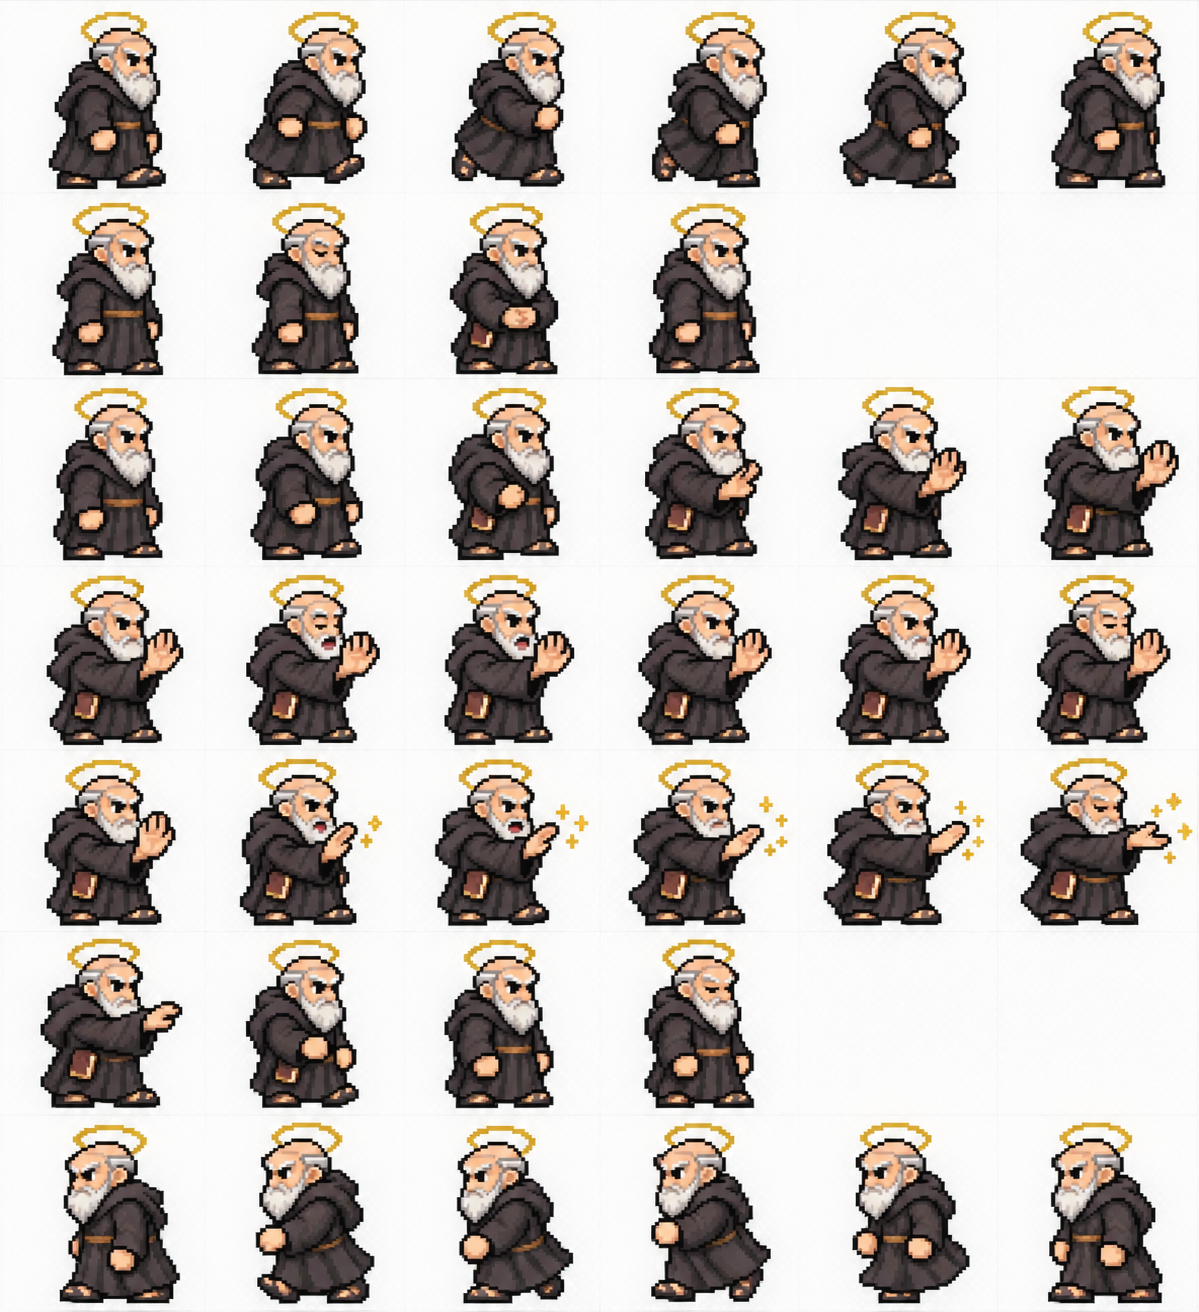
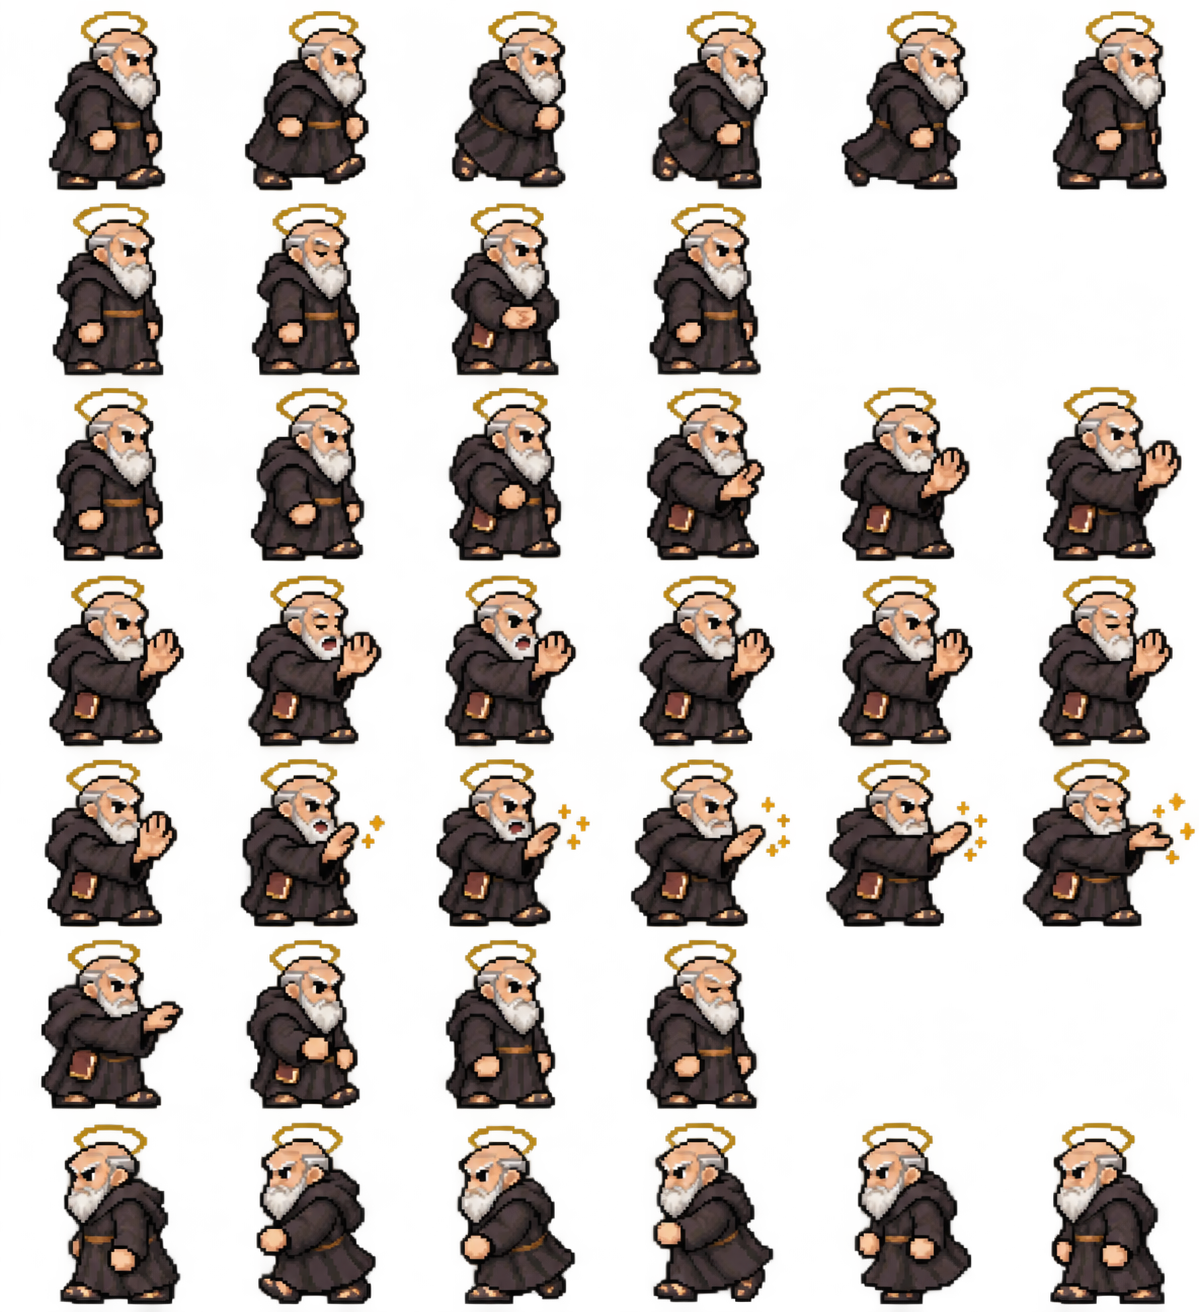
feat(site): Download for Chrome opens the install steps in a modal; new Benedict sprite

diff --git a/site/index.html b/site/index.html
@@ -84,12 +84,19 @@
   .patron span { font-size: 12px; line-height: 1.35; color: var(--muted); margin-top: 3px; }
   .patron.on b { text-decoration: underline 3px var(--accent); text-underline-offset: 4px; }
 
-  /* Install */
-  .install { max-width: 640px; margin: 0 auto; padding: 24px 28px; }
+  /* Install modal */
+  .install { width: min(600px, calc(100vw - 32px)); padding: 26px 28px 28px; color: var(--text); }
+  .install::backdrop { background: rgba(24, 12, 32, .45); }
+  .install h2 { text-align: left; margin-bottom: 4px; }
+  .install .sub { text-align: left; margin: 0 0 18px; }
   .install ol { margin: 0; padding-left: 1.4em; }
   .install li { margin: 0 0 10px; }
+  .install .ctas { justify-content: flex-start; margin-top: 22px; }
+  .install .close {
+    position: absolute; top: 10px; right: 10px; width: 32px; height: 32px; cursor: pointer;
+    font: 700 18px/1 var(--mono); color: var(--text); background: none; border: none;
+  }
   code { background: var(--track); padding: 1px 5px; font: inherit; font-size: .92em; }
-  .install .ctas { margin-top: 20px; }
 
   footer { text-align: center; font-size: 13px; color: var(--muted); padding: 72px 0 40px; }
 </style>
@@ -102,7 +109,7 @@
   <p class="tagline">A patron saint for your browser.</p>
   <p class="sub">Set a daily limit for the sites that eat your time. When it runs out, a saint walks onto the page, raises a hand, and sweeps it away in a shower of pixels.</p>
   <div class="ctas">
-    <a class="btn" href="intercede.zip" download>
+    <a class="btn" href="intercede.zip" id="get" download>
       <svg width="18" height="18" viewBox="0 0 9 9" fill="currentColor" shape-rendering="crispEdges" aria-hidden="true"><path d="M3 0h3v4h2v1H7v1H6v1H5v1H4V7H3V6H2V5H1V4h2zM0 8h9v1H0z"/></svg>
       Download for Chrome
     </a>
@@ -150,28 +157,34 @@
     </div>
   </section>
 
-  <section aria-labelledby="install-title" id="install">
-    <h2 id="install-title">Install in a minute</h2>
-    <p class="sub">Intercede isn't on the Chrome Web Store yet, so it installs by hand.</p>
-    <div class="install frame">
-      <ol>
-        <li><a href="intercede.zip" download>Download Intercede</a> and unzip it.</li>
-        <li>Open <code>chrome://extensions</code> and turn on <b>Developer mode</b> (top right).</li>
-        <li>Click <b>Load unpacked</b> and choose the unzipped folder.</li>
-        <li>Pin Intercede to your toolbar, set your sites, and choose your patron.</li>
-      </ol>
-      <div class="ctas">
-        <a class="btn" href="intercede.zip" download>Download for Chrome</a>
-        <a class="btn ghost" href="https://github.com/wyatt/bert">View on GitHub</a>
-      </div>
-    </div>
-  </section>
 </main>
+
+<dialog class="install frame" id="install" aria-labelledby="install-title">
+  <button class="close" type="button" aria-label="Close">✕</button>
+  <h2 id="install-title">Install in a minute</h2>
+  <p class="sub">Intercede isn't on the Chrome Web Store yet, so it installs by hand.</p>
+  <ol>
+    <li><a href="intercede.zip" download>Download Intercede</a> and unzip it.</li>
+    <li>Open <code>chrome://extensions</code> and turn on <b>Developer mode</b> (top right).</li>
+    <li>Click <b>Load unpacked</b> and choose the unzipped folder.</li>
+    <li>Pin Intercede to your toolbar, set your sites, and choose your patron.</li>
+  </ol>
+  <div class="ctas">
+    <a class="btn" href="intercede.zip" download>Download</a>
+    <a class="btn ghost" href="https://github.com/wyatt/bert">View on GitHub</a>
+  </div>
+</dialog>
 
 <footer>Made by <a href="https://wyattsell.com">Wyatt Sell</a> · <a href="https://github.com/wyatt/bert">GitHub</a></footer>
 
 <script type="module">
   import { PATRONS, LAYOUT, frameIndex } from './ext/patrons.js';
+
+  // "Download for Chrome" opens the install steps (the link itself still downloads without JS).
+  const install = document.getElementById('install');
+  document.getElementById('get').addEventListener('click', event => { event.preventDefault(); install.showModal(); });
+  install.querySelector('.close').addEventListener('click', () => install.close());
+  install.addEventListener('click', event => { if (event.target === install) install.close(); });  // the backdrop
 
   // The demo renders at 960×600 and is scaled to fit its frame.
   const viewport = document.getElementById('viewport'), frame = document.getElementById('demo-frame');
